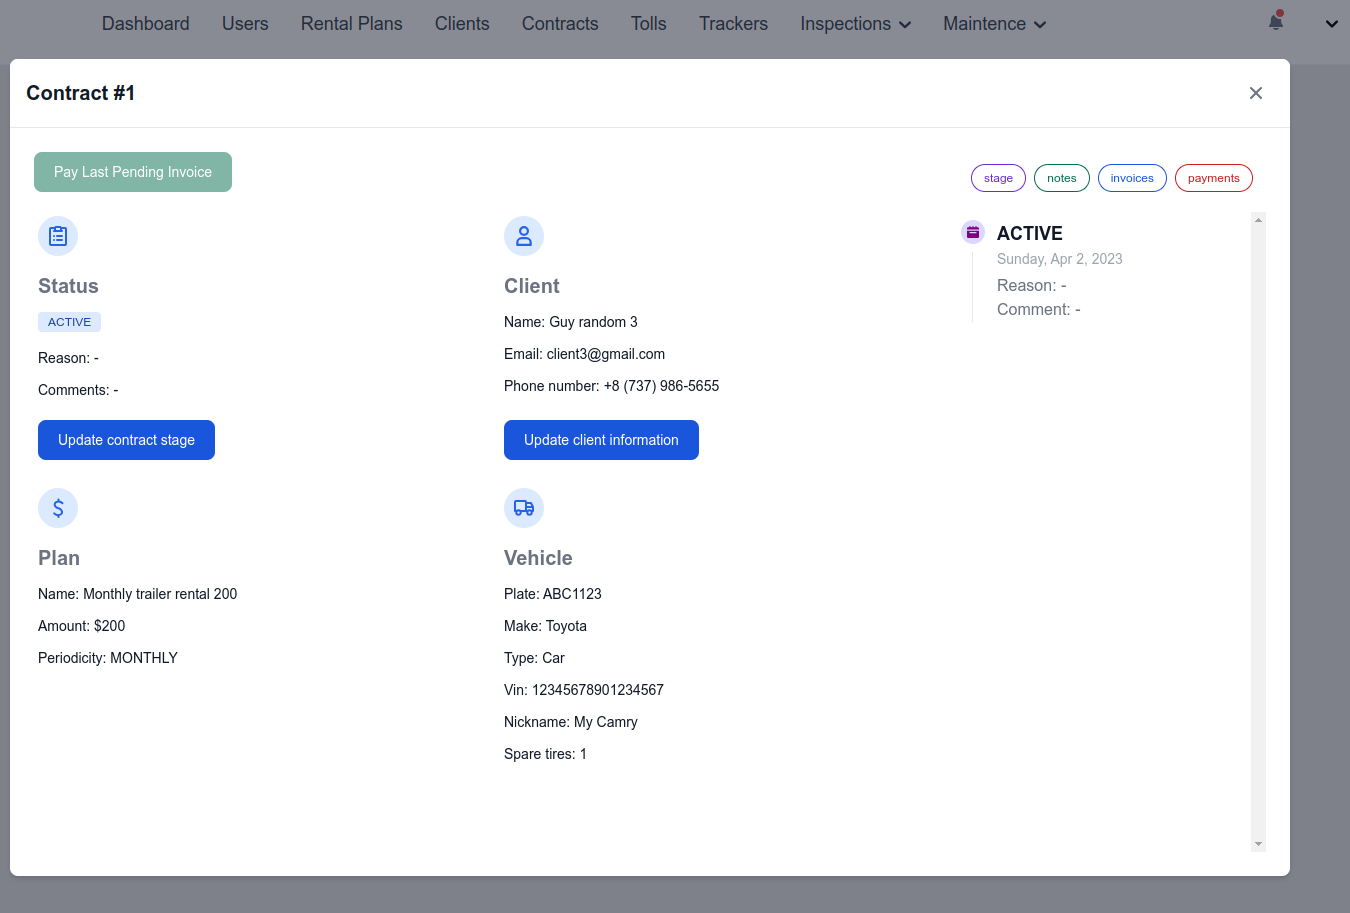
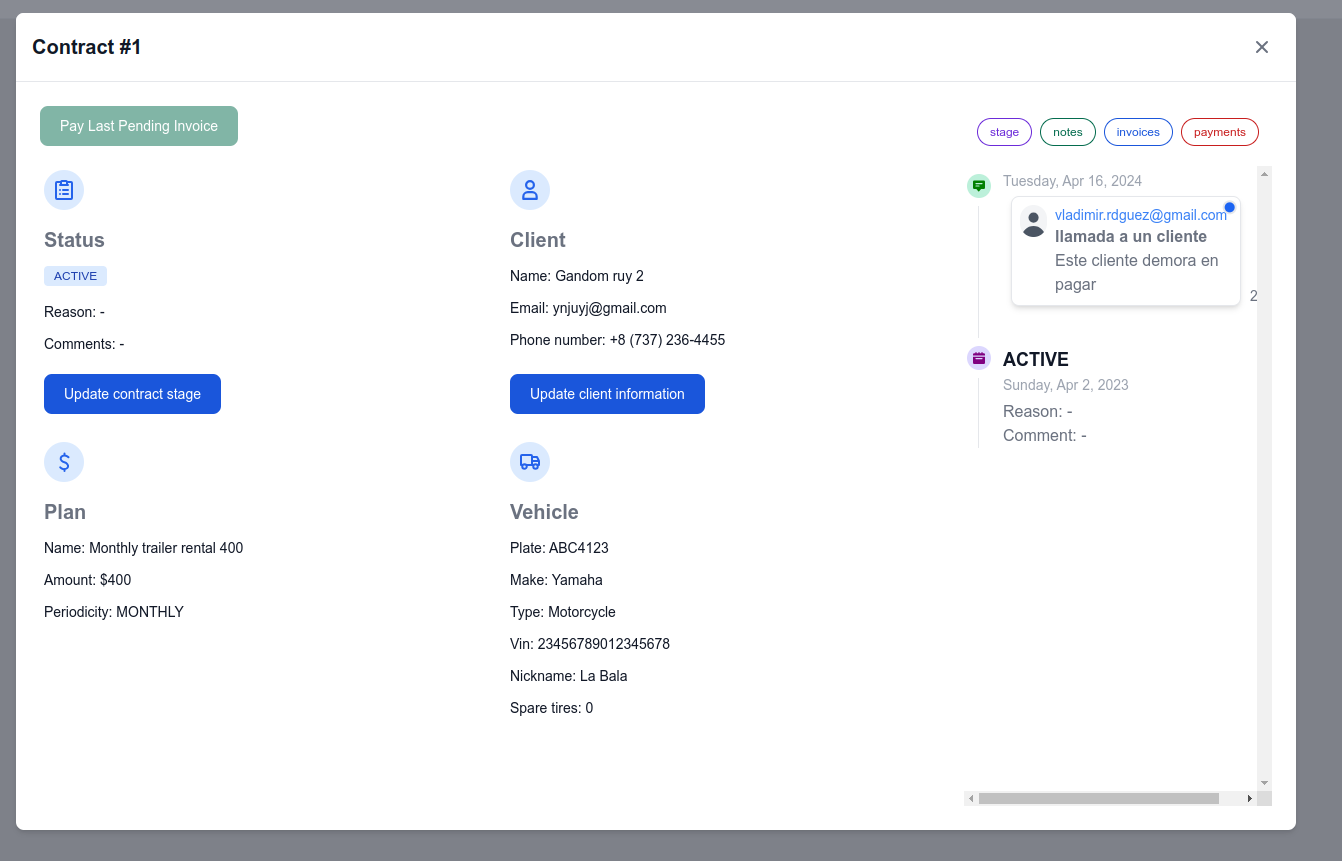
Plans and notes

Changed region(s): [[0.0, 0.0, 0.9776, 0.9663], [0.3666, 0.1812, 0.5499, 0.8455], [0.7027, 0.3926, 0.8554, 0.5134]]

diff --git a/pages/02.projects/21.fleet/211.designer/default.md b/pages/02.projects/21.fleet/211.designer/default.md
@@ -174,7 +174,6 @@ previsualizar:
 
 Esta es la[ vista actual](http://fleet.crabdance.com/contracts). El contrato enlaza a un [cliente](#clients) con un [vehículo](#vehículos) y un [plan de renta](#planes-de-renta).  
 
-
 Además se puede crear:
 
 ![Alt text](./create_contract.png)
@@ -188,9 +187,29 @@ Esta vista debería ser la vista más importante de la plataforma. Ahora se mues
 
 ### Planes de renta
 
-### Lista de contratos
+Esta es la[ vista actual](http://fleet.crabdance.com/plans). Los planes de renta guardan el monto y la periodicidad de los pagos.
+
+
+Además se puede crear:
+
+![Alt text](./create_plan.png)
+
+y modificar:
+
+![Alt text](./update_plan.png)
 
 ### Notas
+
+Se pueden ver todas las notas de un contrato desde la lista de contratos:
+
+![Alt text](./notes.png)
+
+
+Además se puede crear desde allí una nueva nota:
+
+![Alt text](./create_note.png)
+
+
 
 ### Facturas
 
